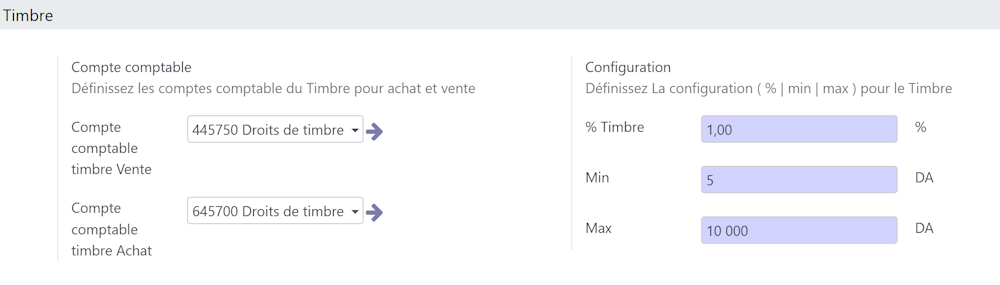
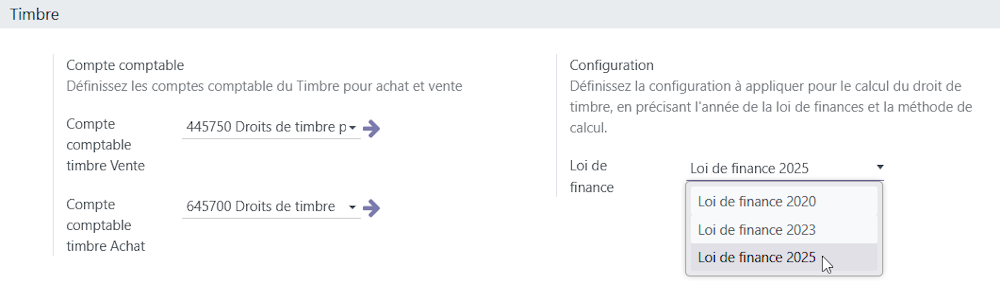
[ADD] (nimizis_dz_timbre) Lois de finance 2025

diff --git a/nimizis_dz_timbre/static/description/index.html b/nimizis_dz_timbre/static/description/index.html
@@ -3,17 +3,24 @@
 
 <section class="oe_container">
     <div class="oe_row oe_spaced">
-        <p class="text-center"> This module allows you to apply a tax stamp duty on invoices (customer or supplier) which must be paid in cash as defined in article 100 of the stamp code, amended by article 18 of the Algerian finance law 2023</p>
+        <p class="text-center"> This module allows you to apply a tax stamp duty on invoices (customer or supplier) which must be paid in cash as defined in article 100 of the stamp code, amended by article 46 of the Algerian finance law 2025 <br/> 
+		It also supports the application of tax stamp duties based on previous amendments from the Finance Laws of 2020 and 2023 (LF2020 and LF2023).
+		</p>
     </div>
 </section>
 
 <section class="oe_container">
     <div class="oe_row oe_spaced">
         <h2><b>Preamble :</b></h2>
-		<p> According to the provisions of Article 100 of the Stamp Code, titles (invoices, receipts, etc.) which record payments or deposits of sums in cash are subject to a stamp duty of 1 Dinar per tranche of 100 Dinars or fraction of tranches of 100 Dinars, with a minimum amount of 5 DA and a maximum of 10,000 DA.  <br/><br/>
+		<p>According to the amendment (Art 46) of the 2025 finance law, the fiscal stamp duty is applied on the total tax amount (Total TTC) as follows :     <br/><br/>
 		   
-		   <b>Example 1 :</b> the total amount including tax of an invoice is <b>25 500 DZD</b>, the amount of stamp duty is <b>255 DZD</b>, which brings the Net to pay the bill to <b>25 500 + 255 = 25 755 DZD</b>  <br/>
-		   <b>Example 2 :</b> If the total amount including tax > <b>1 000 000 DZD</b>, the amount of stamp duty is capped at <b>10 000 DZD</b>
+		
+    <li> From 300 DZD to 30,000 DZD: 1 DZD per 100 DZD</li> <br/>
+	<img src="case1.png"> <br/>
+   <li> From 30,000 DZD to 100,000 DZD: 1.5 DZD per 100 DZD</li> <br/>
+   <img src="case2.png"> <br/>
+    <li> Above 100,000 DZD: 2 DZD per 100 DZD</li> <br/>
+	<img src="case3.png"> <br/>
 		   </p><br/>
 	
 	</div>
@@ -27,7 +34,8 @@
             
 			
 		<li> The accounting accounts for recording the Purchase and Sale stamp duty are entered by default; you can replace them with those in your accounting plan.</li> <br/>
-		<li> The Minimum and Maximum stamp duty thresholds as well as the bracket or % on which the calculation should apply, leave these values as default unless there is a change in tax regulations.</li> <br/>
+		<li> The LF2025 calculation basis is selected by default .</li> <br/>
+		<li> For various use cases (migration, regularization of previous operations/fiscal years, etc.), you have the option to select either the LF2020 or LF2023 calculation basis .</li> <br/>
 		<li> Wherever you are on a sales order, purchase order, or an invoice, you'll find a button labeled <b><i>'Appliquer le timbre fiscal'</i></b>  Once you click on it, it will calculate the stamp duty tax amount according to the configuration, <br/>
 		You can cancel the calculation of the tax stamp by clicking on the button <b><i>'Enlever le timbre fiscal'</i></b> This operation is only possible when the Invoice/Bill or Credit Note is in Draft state</li>
             

diff --git a/nimizis_dz_timbre/models/account_move.py b/nimizis_dz_timbre/models/account_move.py
@@ -5,7 +5,7 @@
 #                                                hm@nimizis.com
 from odoo import api, exceptions, fields, models, _
 from odoo.exceptions import ValidationError
-import math
+from . import nimizis_compute_timbre
 
 
 class AccountInvoiceTimbre(models.Model):
@@ -13,6 +13,7 @@ class AccountInvoiceTimbre(models.Model):
 
     if_timbre = fields.Boolean(string='Timbre ?', default=False,readonly=True,)
     amount_timbre = fields.Monetary(string='Montant du Timbre', readonly=True,store=1,tracking=True)
+    txt_timbre = fields.Char(string='Loi de finance appliqué', readonly=True,store=1,tracking=True)
 
     # the function that applies the stamp on the invoice
     def add_timbre(self):
@@ -30,12 +31,9 @@ class AccountInvoiceTimbre(models.Model):
                         total_untaxed_currency += line.amount_currency
                 total_untaxed_currency=total_untaxed_currency*rec.direction_sign
                 total_tax_currency=total_tax_currency*rec.direction_sign
-                amount_timbre = math.ceil(((total_tax_currency+total_untaxed_currency) * rec.company_id.prcent) / 100)
-                if amount_timbre < rec.company_id.timbre_min:
-                    amount_timbre = rec.company_id.timbre_min
-                elif amount_timbre > rec.company_id.timbre_max:
-                    amount_timbre = rec.company_id.timbre_max
+                amount_timbre = nimizis_compute_timbre.compute_stamp(rec.company_id.fiscal_year,(total_tax_currency+total_untaxed_currency))
                 rec.amount_timbre = amount_timbre
+                rec.txt_timbre = rec.company_id.fiscal_year
                 if  (rec.move_type == "out_invoice" or rec.move_type == "out_refund"):
                     already_exists = rec.line_ids.filtered(lambda line: line.name and line.account_id == rec.company_id.sales_timbre_account_id)
                 if  (rec.move_type == "in_invoice" or rec.move_type == "in_refund"):
@@ -124,6 +122,7 @@ class AccountInvoiceTimbre(models.Model):
     def del_timbre(self):
         self.if_timbre = False
         self.amount_timbre = 0
+        self.txt_timbre = ""
         already_exists = False
         if (self.move_type == "out_invoice" or self.move_type == "out_refund"):
             already_exists = self.line_ids.filtered(

diff --git a/nimizis_dz_timbre/models/sale_order.py b/nimizis_dz_timbre/models/sale_order.py
@@ -5,7 +5,8 @@
 #                                                hm@nimizis.com
 from odoo import models, fields, api
 from odoo.tools.misc import format_date, formatLang
-import math
+from . import nimizis_compute_timbre
+
 
 
 
@@ -14,15 +15,17 @@ class TimbreSale(models.Model):
 
     amount_timbre=fields.Monetary(string='Montant du Timbre', readonly=True, compute='_compute_amounts',tracking=True, store=True)
     if_timbre=fields.Boolean(string='Timbre ?',readonly=True, default=False)
+    txt_timbre = fields.Char(string='Loi de finance appliqué', readonly=True,store=1,tracking=True)
 
     # the function that applies the stamp on the invoice
     def add_timbre(self):
         self.if_timbre = True
+        self.txt_timbre = self.company_id.fiscal_year
 
     # the function that removes the stamp application from the invoice
     def del_timbre(self):
         self.if_timbre = False
-
+        self.txt_timbre = ""
 
     @api.depends('order_line.price_subtotal','if_timbre', 'order_line.price_tax', 'order_line.price_total')
     def _compute_amounts(self):
@@ -42,11 +45,7 @@ class TimbreSale(models.Model):
                 amount_tax = sum(order_lines.mapped('price_tax'))
             amount_timbre=0
             if order.if_timbre:
-                amount_timbre = math.ceil(((amount_untaxed+amount_tax) * order.company_id.prcent) / 100)
-                if amount_timbre < order.company_id.timbre_min:
-                    amount_timbre = order.company_id.timbre_min
-                elif amount_timbre > order.company_id.timbre_max:
-                    amount_timbre = order.company_id.timbre_max
+                amount_timbre=nimizis_compute_timbre.compute_stamp(order.company_id.fiscal_year,amount_untaxed+amount_tax)
             order.amount_timbre = amount_timbre
             order.amount_untaxed = amount_untaxed
             order.amount_tax = amount_tax
@@ -69,4 +68,5 @@ class TimbreSale(models.Model):
     def _prepare_invoice(self):
         res = super(TimbreSale, self)._prepare_invoice()
         res['if_timbre'] = self.if_timbre
+        res['txt_timbre'] = self.txt_timbre
         return res

diff --git a/nimizis_dz_timbre/models/purchase_order.py b/nimizis_dz_timbre/models/purchase_order.py
@@ -5,8 +5,7 @@
 #                                                hm@nimizis.com
 from odoo import models, fields, api
 from odoo.tools.misc import format_date, formatLang
-import math
-
+from . import nimizis_compute_timbre
 
 
 class TimbrePurchases(models.Model):
@@ -14,14 +13,17 @@ class TimbrePurchases(models.Model):
 
     amount_timbre=fields.Monetary(string='Montant du Timbre', readonly=True, compute='_amount_all',tracking=True, store=True)
     if_timbre=fields.Boolean(string='Timbre ?',readonly=True, default=False)
+    txt_timbre = fields.Char(string='Loi de finance appliqué', readonly=True,store=1,tracking=True)
 
     # the function that applies the stamp on the invoice
     def add_timbre(self):
         self.if_timbre = True
+        self.txt_timbre = self.company_id.fiscal_year
 
     # the function that removes the stamp application from the invoice
     def del_timbre(self):
         self.if_timbre = False
+        self.txt_timbre = ""
 
     @api.depends('order_line.price_total', 'if_timbre')
     def _amount_all(self):
@@ -37,11 +39,7 @@ class TimbrePurchases(models.Model):
                 amount_tax = sum(order_lines.mapped('price_tax'))
             amount_timbre=0
             if order.if_timbre:
-                amount_timbre = math.ceil(((amount_untaxed+amount_tax) * order.company_id.prcent) / 100)
-                if amount_timbre < order.company_id.timbre_min:
-                    amount_timbre = order.company_id.timbre_min
-                elif amount_timbre > order.company_id.timbre_max:
-                    amount_timbre = order.company_id.timbre_max
+                amount_timbre = nimizis_compute_timbre.compute_stamp(order.company_id.fiscal_year,amount_untaxed+amount_tax)
             order.amount_timbre = amount_timbre
             order.amount_untaxed = amount_untaxed
             order.amount_tax = amount_tax
@@ -69,6 +67,7 @@ class TimbrePurchases(models.Model):
     def _prepare_invoice(self):
         res = super(TimbrePurchases, self)._prepare_invoice()
         res['if_timbre'] = self.if_timbre
+        res['txt_timbre'] = self.txt_timbre
         return res
 
 

diff --git a/nimizis_dz_timbre/models/res_conf.py b/nimizis_dz_timbre/models/res_conf.py
@@ -12,9 +12,13 @@ class ResCompany(models.Model):
 
     sales_timbre_account_id = fields.Many2one('account.account', string="Compte comptable timbre Vente",default=lambda self: self.env.ref('l10n_dz.1_pcg_44575'))
     purchase_timbre_account_id = fields.Many2one('account.account', string="Compte comptable timbre Achat",default=lambda self: self.env.ref('l10n_dz.1_pcg_6457'))
-    prcent = fields.Float('% timbre',default=1, required=True, tracking=True)
-    timbre_min = fields.Integer('Min', default=5, required=True, tracking=True)
-    timbre_max = fields.Integer('Max',default=10000, required=True, tracking=True)
+
+    fiscal_year = fields.Selection(
+        selection=[('2020', 'Loi de finance 2020'),
+                   ('2023', 'Loi de finance 2023'),
+                   ('2025', 'Loi de finance 2025'),
+                   ],string='Loi de finance',default='2025',required=True)
+
 
 
 class ResConfigSettings(models.TransientModel):
@@ -22,6 +26,6 @@ class ResConfigSettings(models.TransientModel):
 
     sales_timbre_account_id = fields.Many2one('account.account', string="Compte comptable timbre Vente", related='company_id.sales_timbre_account_id', readonly=False)
     purchase_timbre_account_id = fields.Many2one('account.account', string="Compte comptable timbre Achat", related='company_id.purchase_timbre_account_id', readonly=False)
-    prcent = fields.Float('% Timbre',default=1, required=True,related='company_id.prcent', readonly=False)
-    timbre_min = fields.Integer('Min', default=5, required=True,related='company_id.timbre_min', readonly=False)
-    timbre_max = fields.Integer('Max',default=10000, required=True,related='company_id.timbre_max', readonly=False)
+
+    fiscal_year = fields.Selection(string='Loi de finance',related='company_id.fiscal_year',readonly=False,required=True)
+

diff --git a/nimizis_dz_timbre/models/nimizis_compute_timbre.py b/nimizis_dz_timbre/models/nimizis_compute_timbre.py
@@ -1,0 +1,32 @@
+# -*- coding: utf-8 -*-
+# Part of Odoo. See LICENSE file for full copyright and licensing details.
+#
+# Copyright (c) 2025  - NiMiZiS - www.nimizis.com
+#                                                hm@nimizis.com
+import math
+
+def compute_stamp(fiscal_year,total):
+    timbre=0
+    if fiscal_year == '2020':
+        timbre = math.ceil(total / 100)
+        if timbre < 5:
+            timbre = 5
+        elif timbre > 2500:
+            timbre = 2500
+    elif fiscal_year == '2023':
+        timbre = math.ceil(total / 100)
+        if timbre < 5:
+            timbre = 5
+        elif timbre > 10000:
+            timbre = 10000
+    elif fiscal_year == '2025':
+        if total > 300 and total <= 30000:
+            timbre = math.ceil(total / 100)
+        elif total > 30000 and total <= 100000:
+            timbre = math.ceil(math.ceil(total / 100)*1.5)
+        elif total > 100000:
+            timbre = math.ceil(math.ceil(total / 100)*2)
+        if timbre <5 and timbre !=0:
+            timbre=5
+    return timbre
+

diff --git a/nimizis_dz_timbre/__manifest__.py b/nimizis_dz_timbre/__manifest__.py
@@ -11,7 +11,7 @@
     "author": "NiMiZiS",
     'maintainer': 'hm@nimizis.com',
     "license": "AGPL-3",
-    "depends": [ 'l10n_dz','purchase', 'sale' ],
+    "depends": [ 'l10n_dz','purchase', 'sale_management' ],
     'category': 'Accounting/Localizations',
 
     'images': ['static/description/Nimizis dz timbre.gif'],

diff --git a/nimizis_dz_timbre/models/__init__.py b/nimizis_dz_timbre/models/__init__.py
@@ -4,6 +4,7 @@
 # Copyright (c) 2024  - NiMiZiS - www.nimizis.com
 #                                                hm@nimizis.com
 
+from . import nimizis_compute_timbre
 from . import res_conf
 from . import account_move
 from . import purchase_order
